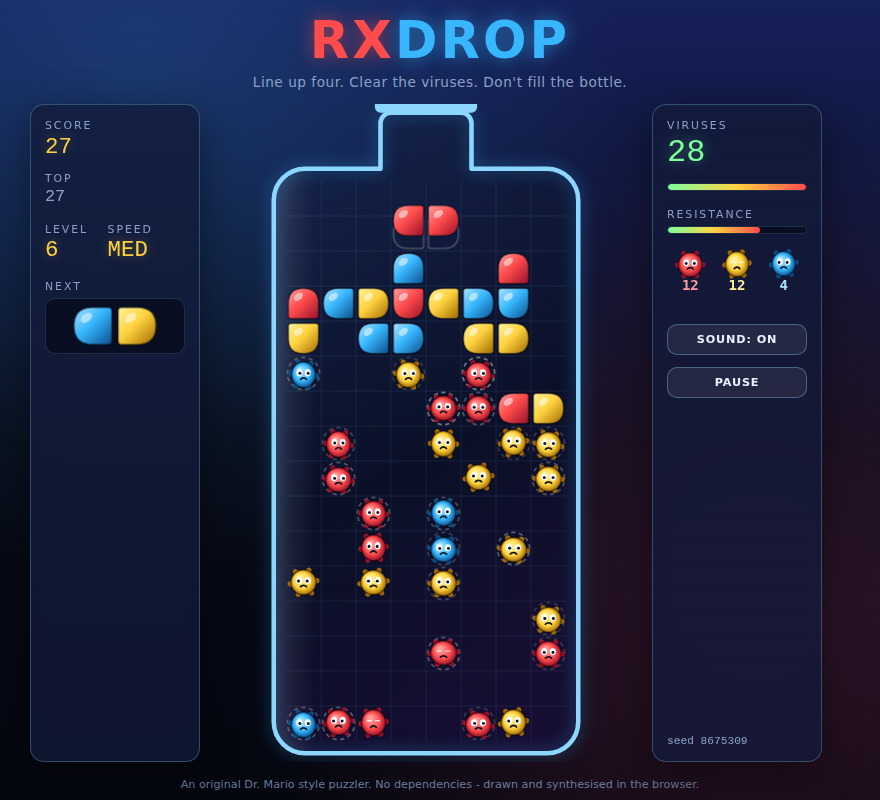
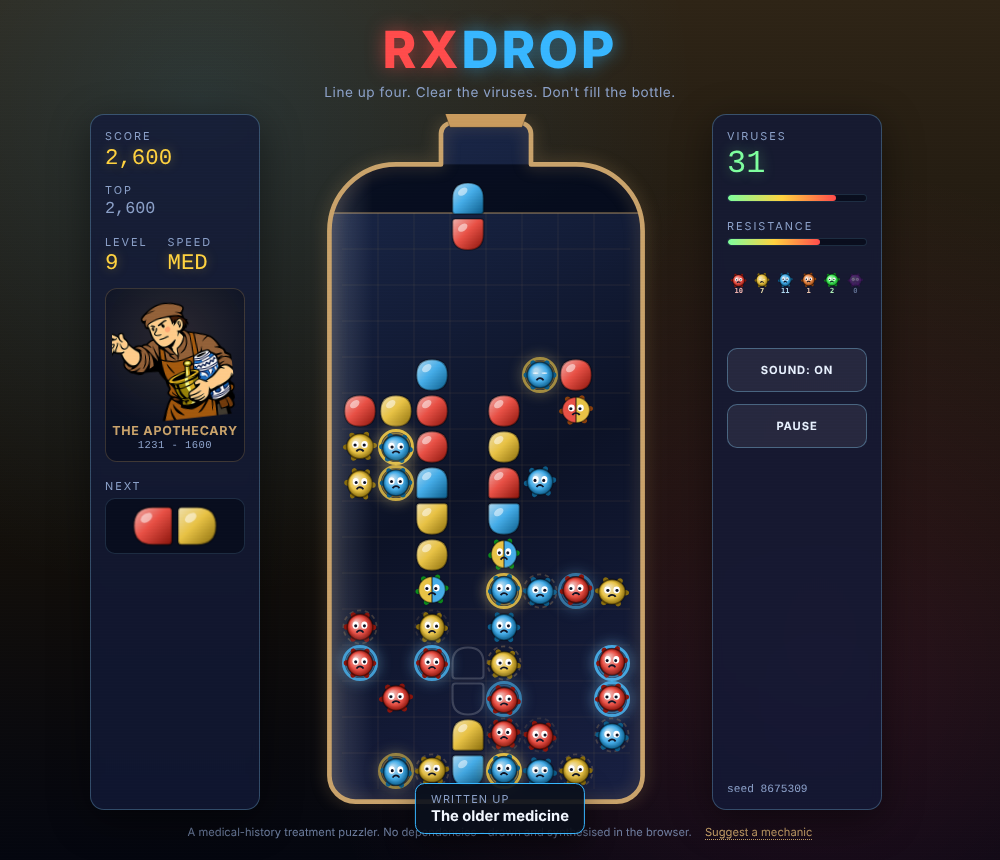
Refresh the GitHub presentation: screenshots, link previews, #50 status (#56)
The README screenshots dated from 9 September and still showed the "An
original Dr. Mario style puzzler" footer. Both are re-captured from the
current game: tools/bot.mjs plays the real page in Chromium, level 9,
seed 8675309, with resistance on so the tolerance rings and hybrids show.

index.html's meta description still said "Dr. Mario style". It now matches
the repository description, and the page gains Open Graph and Twitter tags.
og:image is a new 1280x640 assets/social-preview.png. The same file is what
the Principal uploads as the GitHub social preview, which has no API.

test/metadata.test.js (5 tests, 313 -> 318) keeps that from going stale
again: every preview tag present, no "Dr. Mario" in the description, the
three descriptions identical, og:image naming a real file under og:url at
its real PNG size, and every README image existing. Falsified six ways,
each failing the intended test: the description reverted to "Dr. Mario
style", og:image renamed to a missing file, og:image:height 630,
twitter:card deleted, twitter:description drifted, and a README image path
broken. Restored, all pass.

docs/status.md now records what #50 has and has not done. Description,
homepage and topics are applied. Still open: auto-delete of merged
branches, the social-preview upload, deleting the sixteen branches whose
merged PR head is their tip, and the DEC-0001 archival tag, which does not
exist. The three closed-unmerged branches still hold files main lacks, so
[…]

diff --git a/test/metadata.test.js b/test/metadata.test.js
@@ -1,0 +1,84 @@
+import assert from 'node:assert/strict';
+import { existsSync, readFileSync } from 'node:fs';
+import { dirname, resolve } from 'node:path';
+import { fileURLToPath } from 'node:url';
+import { describe, it } from 'node:test';
+
+// What a link preview and the README show of the game. None of it is played,
+// so nothing else notices when it goes stale: the description said "Dr. Mario
+// style" for a month after the game stopped being one.
+
+const ROOT = resolve(dirname(fileURLToPath(import.meta.url)), '..');
+const read = (path) => readFileSync(resolve(ROOT, path), 'utf8');
+const index = read('index.html');
+
+/** The content of the <meta> whose name or property is `key`, or null. */
+function meta(key) {
+  for (const [tag] of index.matchAll(/<meta\b[^>]*>/gi)) {
+    const named = tag.match(/\b(?:name|property)\s*=\s*"([^"]+)"/i)?.[1];
+    if (named === key) return tag.match(/\bcontent\s*=\s*"([^"]*)"/i)?.[1] ?? null;
+  }
+  return null;
+}
+
+/** Width and height from a PNG's IHDR chunk. */
+function pngSize(path) {
+  const bytes = readFileSync(resolve(ROOT, path));
+  assert.equal(bytes.toString('latin1', 1, 4), 'PNG', `${path} is not a PNG`);
+  return { width: bytes.readUInt32BE(16), height: bytes.readUInt32BE(20) };
+}
+
+describe('page metadata', () => {
+  const SITE = meta('og:url');
+
+  it('has a description and a full set of link-preview tags', () => {
+    for (const key of [
+      'description',
+      'og:type',
+      'og:title',
+      'og:description',
+      'og:url',
+      'og:image',
+      'og:image:width',
+      'og:image:height',
+      'og:image:alt',
+      'twitter:card',
+      'twitter:image',
+    ]) {
+      assert.ok(meta(key), `index.html is missing <meta> ${key}`);
+    }
+    assert.equal(meta('twitter:card'), 'summary_large_image');
+  });
+
+  it('describes the game as it is now', () => {
+    assert.doesNotMatch(meta('description'), /dr\.? mario/i);
+    assert.match(meta('description'), /medical-history/i);
+  });
+
+  it('says the same thing everywhere a preview might read it', () => {
+    assert.equal(meta('og:description'), meta('description'));
+    assert.equal(meta('twitter:description'), meta('description'));
+    assert.equal(meta('twitter:image'), meta('og:image'));
+  });
+
+  it('points the preview image at a file this site actually serves, at its real size', () => {
+    assert.match(SITE, /^https:\/\/[^/]+\/.*\/$/, 'og:url must be the absolute site root');
+    const image = meta('og:image');
+    assert.ok(image.startsWith(SITE), `og:image ${image} is not under ${SITE}`);
+    const path = image.slice(SITE.length);
+    assert.ok(existsSync(resolve(ROOT, path)), `og:image names ${path}, which is not in the repo`);
+    const { width, height } = pngSize(path);
+    assert.equal(Number(meta('og:image:width')), width);
+    assert.equal(Number(meta('og:image:height')), height);
+  });
+});
+
+describe('README images', () => {
+  it('names only images that exist', () => {
+    const images = [...read('README.md').matchAll(/!\[[^\]]*\]\(([^)\s]+)\)/g)].map((m) => m[1]);
+    assert.ok(images.length >= 2, 'the README should show the game');
+    for (const path of images.filter((p) => !/^[a-z]+:/i.test(p))) {
+      assert.ok(existsSync(resolve(ROOT, path)), `README shows ${path}, which is not in the repo`);
+    }
+  });
+});

diff --git a/index.html b/index.html
@@ -5,10 +5,38 @@
     <meta name="viewport" content="width=device-width, initial-scale=1, viewport-fit=cover" />
     <meta
       name="description"
-      content="RxDrop - a Dr. Mario style falling-capsule puzzle game that runs in your browser, offline, with a daily challenge and local versus."
+      content="RxDrop - a medical-history puzzle game where treatments evolve and infections adapt. Ten eras of medicine, in your browser and offline, with a daily challenge and local versus."
     />
     <meta name="theme-color" content="#0b1020" />
     <title>RxDrop</title>
+    <!-- Link previews. Crawlers need absolute URLs; test/metadata.test.js keeps
+         these pointing at a real file and in step with the description above. -->
+    <meta property="og:type" content="website" />
+    <meta property="og:site_name" content="RxDrop" />
+    <meta property="og:title" content="RxDrop" />
+    <meta
+      property="og:description"
+      content="RxDrop - a medical-history puzzle game where treatments evolve and infections adapt. Ten eras of medicine, in your browser and offline, with a daily challenge and local versus."
+    />
+    <meta property="og:url" content="https://danielwjohnston.github.io/rxdrop/" />
+    <meta property="og:image" content="https://danielwjohnston.github.io/rxdrop/assets/social-preview.png" />
+    <meta property="og:image:width" content="1280" />
+    <meta property="og:image:height" content="640" />
+    <meta
+      property="og:image:alt"
+      content="The RxDrop logo, the ten era practitioners, and a bottle of capsules and resistant viruses mid-game."
+    />
+    <meta name="twitter:card" content="summary_large_image" />
+    <meta name="twitter:title" content="RxDrop" />
+    <meta
+      name="twitter:description"
+      content="RxDrop - a medical-history puzzle game where treatments evolve and infections adapt. Ten eras of medicine, in your browser and offline, with a daily challenge and local versus."
+    />
+    <meta name="twitter:image" content="https://danielwjohnston.github.io/rxdrop/assets/social-preview.png" />
+    <meta
+      name="twitter:image:alt"
+      content="The RxDrop logo, the ten era practitioners, and a bottle of capsules and resistant viruses mid-game."
+    />
     <link rel="icon" href="assets/favicon.svg" type="image/svg+xml" />
     <link rel="apple-touch-icon" sizes="180x180" href="assets/icon-180.png" />
     <meta name="apple-mobile-web-app-capable" content="yes" />

diff --git a/docs/status.md b/docs/status.md
@@ -1,6 +1,6 @@
 # RxDrop current project status
 
-**Last reviewed:** 9 October 2026, at `main` 583cf4e  
+**Last reviewed:** 10 October 2026, at `main` 4c8a9a5  
 **Canonical implementation:** `main`  
 **Primary target:** Web/PWA  
 **Secondary target:** Godot, after the web version reaches a Principal-approved completion point
@@ -60,7 +60,7 @@ Two consequences:
 
 The gate consists of:
 
-- **313 unit tests** on Node 20 and Node 22;
+- **318 unit tests** on Node 20 and Node 22;
 - the thirteen-stage UltraGauntlet;
 - **43 browser checks** covering menus, input, daily, versus, offline/mobile
   behavior, and the campaign-complete path.
@@ -88,6 +88,10 @@ change rather than inheriting an older green result.
 > - No branch carries a test file or a test case that `main` lacks.
 >
 > The guards are present and green. The claim is retired, not recovered.
+>
+> **The suite is 318 again, genuinely (10 October).** `test/metadata.test.js`
+> added five tests, taking 313 to 318. Both figures are correct for their
+> dates; do not "correct" this one back to 313.
 
 ## Current roadmap
 
@@ -102,7 +106,7 @@ Principal decisions.
 | Item | Class | Waiting on |
 | --- | --- | --- |
 | Web-complete/freeze decision | critical blocker for Godot | Principal: decision, plus #47 scope call |
-| #50 repository settings and branch cleanup | high value, small | Principal: admin-only GitHub settings |
+| #50 remainder: auto-delete, branch cleanup, social preview | high value, small | Principal: admin-only GitHub actions |
 | #40 engine-neutral score schema | normal implementation | Unblocked; gates #41 and #43 |
 | #42 Sonotherapy prototype | normal implementation | Unblocked (#39 done); must land with a bound |
 | #41 adaptive mixer | normal implementation | #40 |
@@ -122,20 +126,50 @@ Principal decisions.
 
 ### Repository administration
 
-Issue #50 remains open, and none of its settings have been applied yet. As of 9
-October the GitHub description still reads "A Dr. Mario clone". No homepage or
-topics are set, and automatic deletion of merged head branches is off. #49 was
-closed in favour of #50, but the settings it asked for are still unchanged.
-These changes are admin-only, so they are Principal actions.
+Most of issue #50 is applied. On 10 October the GitHub API showed the
+description "Medical-history puzzle game where treatments evolve and infections
+adapt.", the GitHub Pages homepage, and all seven topics. Separately, on 9
+October the Principal applied "Allow auto-merge" and the **main: require CI**
+ruleset described under Quality gate.
 
-Separately from #50, the Principal applied two settings on 9 October: "Allow
-auto-merge" and the **main: require CI** ruleset described under Quality gate.
+Four admin actions remain. Agent sessions so far have not had the access for
+any of them:
 
-The PR #48 and #52 head branches (`openai/project-state-sync-2026-10-06`,
-`openai/project-state-followups-2026-10-06`) are merged. The PR #51 duplicate
-(`openai/project-state-convergence`) is closed and reconciled. Those three join
-the cleanup candidates listed in #50. `openai/medical-eras-visual-overhaul`
-stays held under DEC-0001.
+- **Social preview.** `assets/social-preview.png` (1280×640) is committed and
+  is already the page's `og:image`. GitHub's own social-preview setting has no
+  API. Upload it under Settings → General → Social preview.
+- **Automatically delete head branches after merge** is still off.
+- **Delete the fully merged branches.** Each of these sixteen has a merged PR
+  whose head is the branch's current tip, so nothing on them is missing from
+  `main`: `claude/document-main-ci-ruleset` (#54),
+  `claude/retire-c005985-guard-claim` (#55),
+  `claude/roadmap-refresh-2026-10-09` (#53), `claude/rxdrop-setup-khf70o`
+  (#29 and earlier), `devin/1789203310-cross-vendor-review` (#28),
+  `devin/1789237782-practitioner-art` (#32), `devin/1789239438-ten-eras` (#33),
+  `devin/1789244932-browser-testing-skill` (#34),
+  `devin/1789245592-chain-scoring` (#35),
+  `devin/1789245982-light-chamber-pace` (#36),
+  `devin/1789247592-era-chiptunes` (#37),
+  `devin/1789306513-review-fixes` (#45), `devin/audio-transport` (#44),
+  `openai/project-state-followups-2026-10-06` (#52),
+  `openai/project-state-sync-2026-10-06` (#48) and
+  `openai/repository-surface-refresh` (#31).
+- **Create the DEC-0001 archival tag.** DEC-0001 item 2 authorized
+  `archive/openai-medical-eras` at `40ebd8e`. The repository has no tags, so
+  that tag does not exist yet.
+
+Three branches were closed without merging, and each still holds files that
+`main` lacks. They are not fully merged, so deleting them needs a decision,
+ideally with an archive tag first:
+
+- `openai/project-state-convergence` (#51, the duplicate reconciled by #52);
+- `devin/1789307833-consolidate-legacy` (#46, superseded);
+- `openai/master-multi-agent-protocol` (#30). It alone carries
+  `.agents/agents/openai-gpt-5.6-sol.md` and
+  `.agents/tasks/TASK-0001-bootstrap-master-protocol.md`.
+
+`openai/medical-eras-visual-overhaul` stays held under DEC-0001. Its deletion
+waits on that decision's verification condition, not on tidiness.
 
 ### Audio
 
@@ -182,16 +216,22 @@ for why earlier branch decisions were made, but it is not the live roadmap.
 
 ## Repository-facing metadata
 
-Tracked repository files describe RxDrop as a medical-history treatment puzzle.
-The GitHub repository settings should match that framing as well:
+Tracked files and GitHub settings now both describe RxDrop as a medical-history
+treatment puzzle:
 
-- description: **Medical-history puzzle game where treatments evolve and infections adapt**
-- homepage: **https://danielwjohnston.github.io/rxdrop/**
-- suggested topics: `puzzle-game`, `javascript`, `pwa`, `canvas`,
-  `medical-history`, `game-development`, `godot`
-
-These fields live in GitHub repository settings rather than tracked files.
-As of 9 October they have not been applied. Issue #50 tracks them.
+- description: **Medical-history puzzle game where treatments evolve and infections adapt.**
+  (applied);
+- homepage: **https://danielwjohnston.github.io/rxdrop/** (applied);
+- topics: `puzzle-game`, `javascript`, `pwa`, `canvas`, `medical-history`,
+  `game-development`, `godot` (applied);
+- `index.html` carries the matching meta description plus Open Graph and
+  Twitter tags. Its `og:image` is `assets/social-preview.png`.
+  `test/metadata.test.js` fails if that file goes missing, changes size or
+  drifts out of step with the descriptions;
+- the README screenshots `assets/screenshot.png` and `assets/versus.png` were
+  re-captured on 10 October from the current game, with the bot playing level 9
+  at seed 8675309. The September captures showed the old "Dr. Mario style"
+  footer.
 
 ## Source hierarchy
 

diff --git a/docs/legacy.md b/docs/legacy.md
@@ -49,7 +49,9 @@ warning instead of a loss.
 - `ee6b344` *Fix rotation drift and the lock timing that made the game unfair
   (#6)*; `6c9527f` *Add a neck row (#7)*.
 - `assets/screenshot.png`, `assets/versus.png` — the two README screenshots,
-  the only images the repository had for its first three days.
+  the only images the repository had for its first three days. They were
+  re-captured on 10 October; the originals are `git show
+  4c8a9a5:assets/screenshot.png` and `git show 4c8a9a5:assets/versus.png`.
 
 **DECISION.** Ship a finished clone first, then decide what it is. The
 gauntlet stays as the gate for everything after.

diff --git a/AGENTS.md b/AGENTS.md
@@ -55,7 +55,7 @@ The same goes for any file over ~800 lines — see the token budget below.
 
 ```
 npm start                     # serve at localhost:8080
-npm test                      # 313 unit tests, ~1.0s   <- cheapest useful check
+npm test                      # 318 unit tests, ~1.0s   <- cheapest useful check
 node tools/playtest.mjs       # the bot plays; reports on feel, not legality
 node tools/gauntlet.mjs       # the full gate, ~5 minutes
 ```

diff --git a/README.md b/README.md
@@ -300,7 +300,7 @@ clipped inside.
 ## Development
 
 ```sh
-npm test           # 313 unit tests, no dependencies, well under a second
+npm test           # 318 unit tests, no dependencies, well under a second
 npm run test:watch # re-run on change
 
 # End-to-end checks in a real browser (Playwright is not a dependency):
